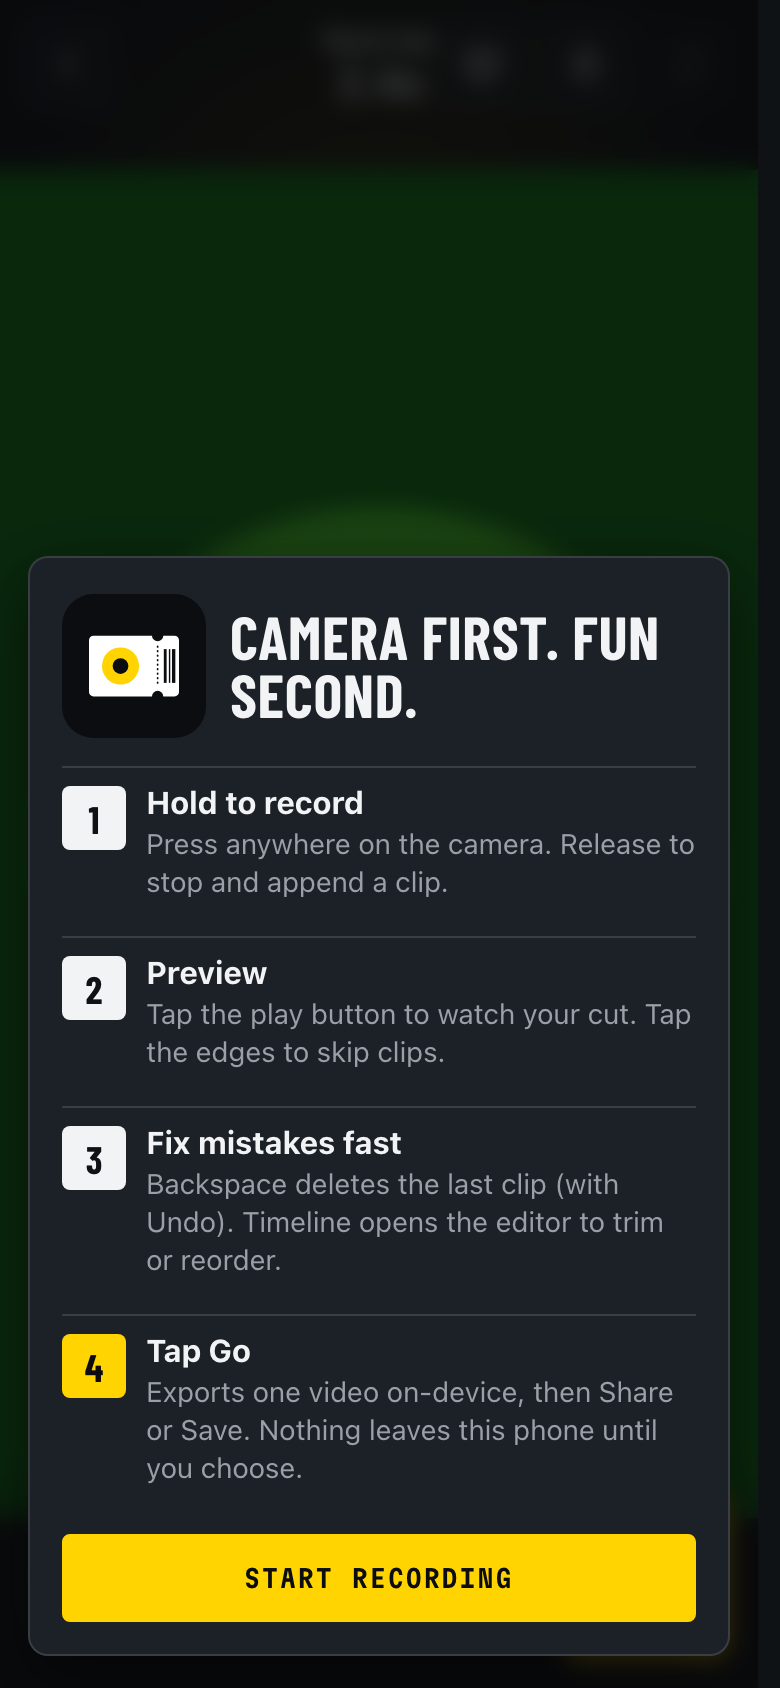
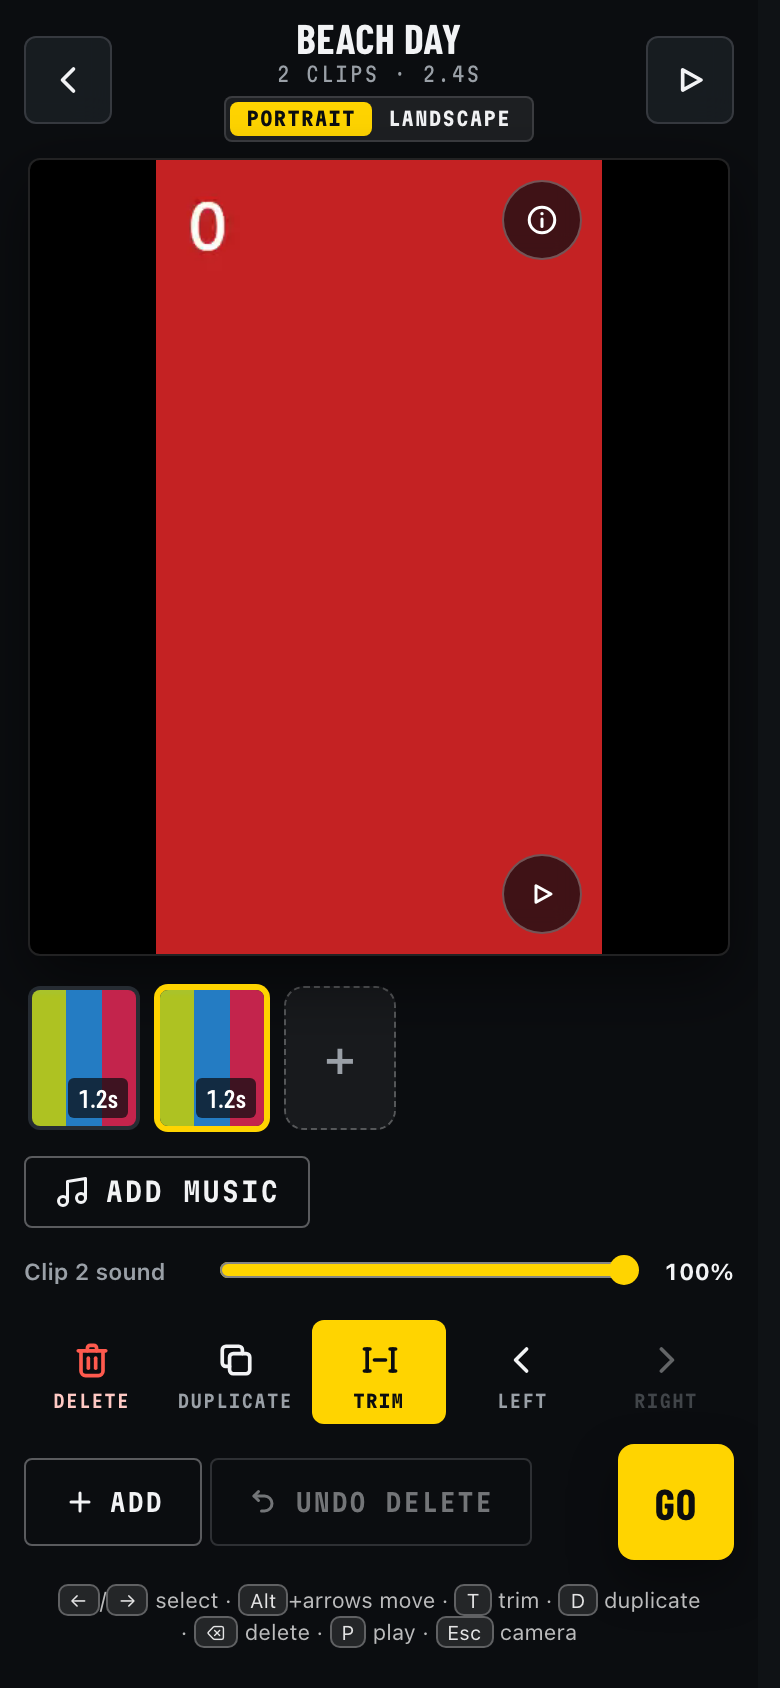
style: update editor action styles for improved readability and consistency

diff --git a/src/styles/editor.css b/src/styles/editor.css
@@ -1007,20 +1007,23 @@
 }
 
 .editor-action-label {
-  font-size: 0.68rem;
+  font-family: var(--font-mono);
+  font-stretch: 78%;
+  font-size: 0.56rem;
   font-weight: 600;
-  letter-spacing: 0.01em;
+  letter-spacing: 0.1em;
+  text-transform: uppercase;
   line-height: 1;
   color: var(--ink-muted);
 }
 
 .editor-action.prominent {
-  background: color-mix(in srgb, var(--accent) 18%, transparent);
-  color: var(--accent-text);
+  background: var(--accent);
+  color: var(--accent-ink);
 }
 
 .editor-action.prominent .editor-action-label {
-  color: var(--accent-text);
+  color: var(--accent-ink);
   font-weight: 700;
 }
 
